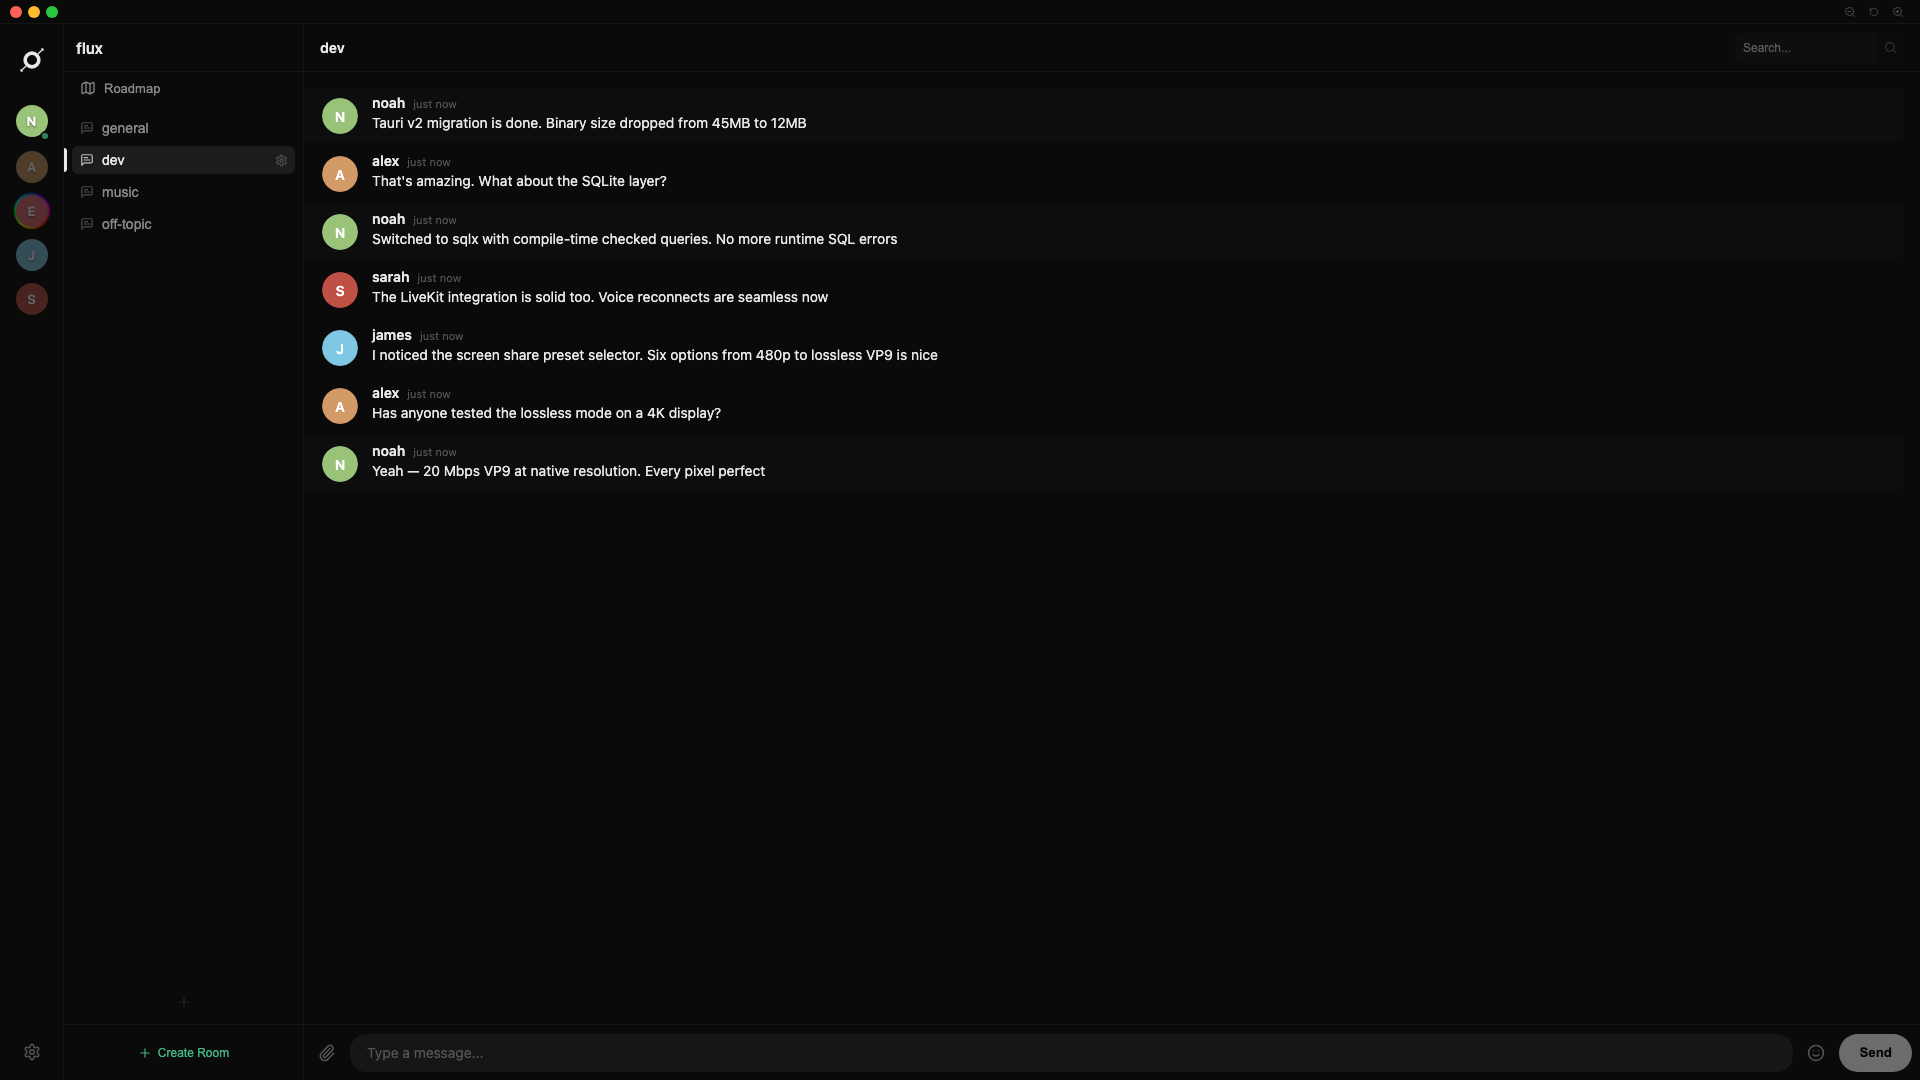
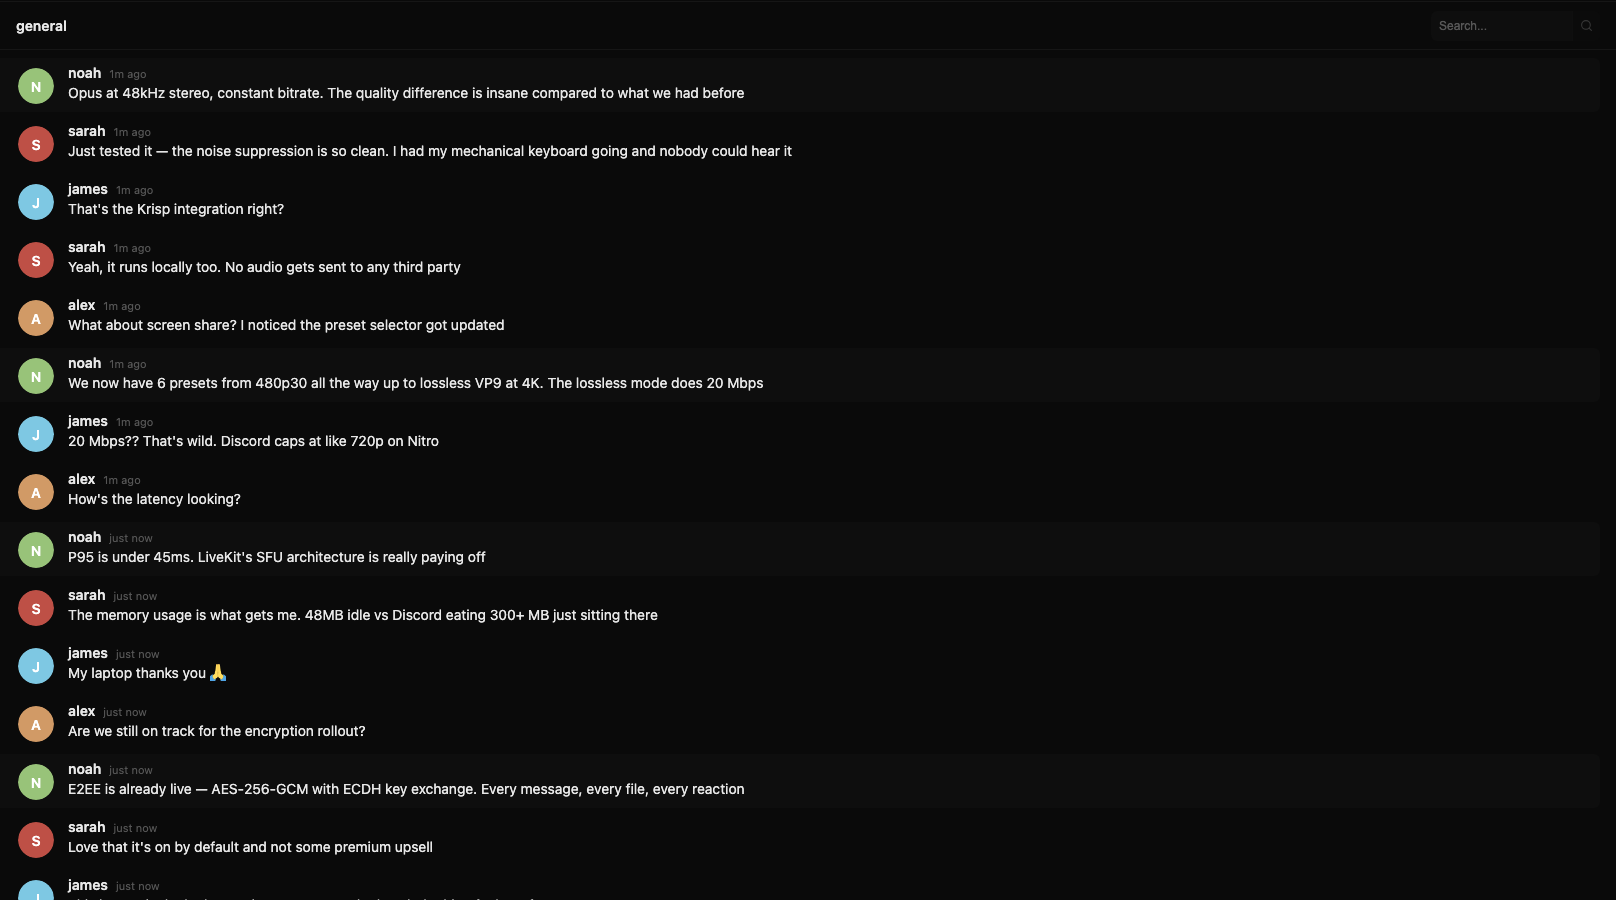
redesign feature sections with cropped UI fragments
- Crop screenshots to focused pieces (no window chrome/sidebars)
- Messaging: composited sidebar floating over message area
- Voice: Voice & Audio settings panel (completely different UI)
- Screen Share: cropped #dev conversation about VP9/4K
- Add sidebar.png fragment for floating composition

diff --git a/src/app/(main)/flux/page.tsx b/src/app/(main)/flux/page.tsx
@@ -24,50 +24,7 @@ const fluxBenchmarks: BenchmarkGroup[] = [
   { metric: "Audio Quality (Bitrate)", ours: { label: "Flux", value: 320 }, theirs: { label: "Discord", value: 96 }, unit: " kbps", lowerIsBetter: false },
 ];
 
-const FEATURE_SECTIONS = [
-  {
-    number: "1.0",
-    label: "Messaging",
-    title: "Encrypted by default.\nConversations that stay yours.",
-    description: "Every message, file, and reaction is encrypted end-to-end with AES-256-GCM before leaving your device. Rich text, emoji, reactions, and threaded replies — without compromising privacy.",
-    image: "/flux/chat.png",
-    imageAlt: "Flux chat interface showing channel sidebar and encrypted conversation",
-    subFeatures: [
-      { number: "1.1", label: "End-to-end encryption" },
-      { number: "1.2", label: "Rich messaging" },
-      { number: "1.3", label: "File sharing" },
-      { number: "1.4", label: "Reactions & threads" },
-    ],
-  },
-  {
-    number: "2.0",
-    label: "Voice",
-    title: "Crystal-clear audio.\nNoise suppression that actually works.",
-    description: "48kHz stereo Opus audio with Krisp AI noise suppression running locally on your device. Keyboard clatter, fans, and background chatter vanish — your voice stays untouched. Sub-45ms latency over LiveKit's globally distributed SFU.",
-    image: "/flux/voice.png",
-    imageAlt: "Flux voice room with connected participants",
-    subFeatures: [
-      { number: "2.1", label: "48kHz stereo" },
-      { number: "2.2", label: "Krisp noise filter" },
-      { number: "2.3", label: "320kbps bitrate" },
-      { number: "2.4", label: "<45ms latency" },
-    ],
-  },
-  {
-    number: "3.0",
-    label: "Customization",
-    title: "Make it yours.\nThemes, layouts, and fine-tuned audio.",
-    description: "Dark and light themes, custom backgrounds, adjustable sidebar positioning, noise suppression levels, and per-user volume controls. Every setting you need, nothing you don't.",
-    image: "/flux/settings.png",
-    imageAlt: "Flux settings panel showing appearance customization options",
-    subFeatures: [
-      { number: "3.1", label: "Theme system" },
-      { number: "3.2", label: "Audio tuning" },
-      { number: "3.3", label: "Custom keybinds" },
-      { number: "3.4", label: "Gallery backgrounds" },
-    ],
-  },
-];
+// Feature section data — images are composed per-section in the render
 
 const iconMap = { AudioWaveform, Lock, Monitor, MicOff, MessageSquare, Zap } as const;
 
@@ -164,75 +121,185 @@ function HeroScreenshot() {
   );
 }
 
-// ── Feature Section ──
-// Linear-style: section number + label, headline + description side-by-side at top,
-// full-width screenshot below, sub-feature links at bottom
+// ── Section Header ── (reusable)
 
-function FeatureSection({
+function SectionHeader({
   number,
   label,
   title,
   description,
-  image,
-  imageAlt,
-  subFeatures,
 }: {
   number: string;
   label: string;
   title: string;
   description: string;
-  image: string;
-  imageAlt: string;
-  subFeatures: { number: string; label: string }[];
 }) {
+  return (
+    <>
+      <ScrollReveal>
+        <div className="flex items-center gap-2 mb-16">
+          <span className="text-sm font-mono text-foreground-muted">{number}</span>
+          <span className="text-sm text-foreground-muted">{label}</span>
+          <ArrowRight size={14} className="text-foreground-muted" />
+        </div>
+      </ScrollReveal>
+      <div className="grid lg:grid-cols-2 gap-8 lg:gap-16 mb-16">
+        <ScrollReveal>
+          <h2 className="text-[clamp(2rem,4vw,3rem)] font-light tracking-[-0.02em] leading-[1.15] text-foreground whitespace-pre-line">
+            {title}
+          </h2>
+        </ScrollReveal>
+        <ScrollReveal delay={0.1}>
+          <p className="text-foreground-muted leading-relaxed lg:pt-2">
+            {description}
+          </p>
+        </ScrollReveal>
+      </div>
+    </>
+  );
+}
+
+function SubFeatures({ items }: { items: { number: string; label: string }[] }) {
+  return (
+    <ScrollReveal delay={0.1}>
+      <div className="mt-12 grid grid-cols-2 sm:grid-cols-4 gap-4">
+        {items.map((sf) => (
+          <div key={sf.number} className="flex items-baseline gap-2">
+            <span className="text-sm font-mono text-foreground-muted/50">{sf.number}</span>
+            <span className="text-sm text-foreground-muted">{sf.label}</span>
+          </div>
+        ))}
+      </div>
+    </ScrollReveal>
+  );
+}
+
+// ── 1.0 Messaging ──
+// Composited: channel sidebar floating over the message stream
+
+function MessagingSection() {
   return (
     <section className="py-24 sm:py-32 px-6 border-t border-border/50">
       <div className="mx-auto max-w-6xl">
-        {/* Section number + arrow */}
+        <SectionHeader
+          number="1.0"
+          label="Messaging"
+          title={"Encrypted by default.\nConversations that stay yours."}
+          description="Every message, file, and reaction is encrypted end-to-end with AES-256-GCM before leaving your device. Rich text, emoji, reactions, and threaded replies — without compromising privacy."
+        />
+
+        {/* Composited image: sidebar floating over message area */}
         <ScrollReveal>
-          <div className="flex items-center gap-2 mb-16">
-            <span className="text-sm font-mono text-foreground-muted">{number}</span>
-            <span className="text-sm text-foreground-muted">{label}</span>
-            <ArrowRight size={14} className="text-foreground-muted" />
+          <div className="relative">
+            {/* Message area — the main piece */}
+            <div className="rounded-xl overflow-hidden border border-border/50 shadow-2xl">
+              <img
+                src="/flux/chat.png"
+                alt="Flux encrypted conversation in #general"
+                className="w-full h-auto block"
+              />
+            </div>
+
+            {/* Channel sidebar — floating offset card */}
+            <div className="absolute -left-4 sm:-left-8 top-8 sm:top-12 w-[140px] sm:w-[180px] rounded-xl overflow-hidden border border-border/50 shadow-2xl bg-background">
+              <img
+                src="/flux/sidebar.png"
+                alt="Flux channel sidebar"
+                className="w-full h-auto block"
+                style={{ maxHeight: "400px", objectFit: "cover", objectPosition: "top" }}
+              />
+            </div>
           </div>
         </ScrollReveal>
 
-        {/* Headline left, description right — Linear style */}
-        <div className="grid lg:grid-cols-2 gap-8 lg:gap-16 mb-16">
-          <ScrollReveal>
-            <h2 className="text-[clamp(2rem,4vw,3rem)] font-light tracking-[-0.02em] leading-[1.15] text-foreground whitespace-pre-line">
-              {title}
-            </h2>
-          </ScrollReveal>
-          <ScrollReveal delay={0.1}>
-            <p className="text-foreground-muted leading-relaxed lg:pt-2">
-              {description}
-            </p>
-          </ScrollReveal>
-        </div>
+        <SubFeatures
+          items={[
+            { number: "1.1", label: "End-to-end encryption" },
+            { number: "1.2", label: "Rich messaging" },
+            { number: "1.3", label: "File sharing" },
+            { number: "1.4", label: "Reactions & threads" },
+          ]}
+        />
+      </div>
+    </section>
+  );
+}
 
-        {/* Full-width screenshot */}
+// ── 2.0 Voice ──
+// Shows the Voice & Audio settings panel — a completely different UI from the chat
+
+function VoiceSection() {
+  return (
+    <section className="py-24 sm:py-32 px-6 border-t border-border/50">
+      <div className="mx-auto max-w-6xl">
+        <SectionHeader
+          number="2.0"
+          label="Voice"
+          title={"Crystal-clear audio.\nNoise suppression that actually works."}
+          description="48kHz stereo Opus audio with Krisp AI noise suppression running locally on your device. Keyboard clatter, fans, and background chatter vanish — your voice stays untouched. Sub-45ms latency over LiveKit's globally distributed SFU."
+        />
+
+        {/* Voice & Audio settings — shows the audio engine controls */}
         <ScrollReveal>
-          <div className="relative rounded-lg overflow-hidden border border-border/50">
+          <div className="flex justify-center">
+            <div className="relative max-w-lg w-full">
+              <div className="rounded-xl overflow-hidden border border-border/50 shadow-2xl">
+                <img
+                  src="/flux/settings.png"
+                  alt="Flux Voice & Audio settings with noise suppression, echo cancellation, and adaptive bitrate controls"
+                  className="w-full h-auto block"
+                />
+              </div>
+            </div>
+          </div>
+        </ScrollReveal>
+
+        <SubFeatures
+          items={[
+            { number: "2.1", label: "48kHz stereo" },
+            { number: "2.2", label: "Krisp noise filter" },
+            { number: "2.3", label: "320kbps bitrate" },
+            { number: "2.4", label: "<45ms latency" },
+          ]}
+        />
+      </div>
+    </section>
+  );
+}
+
+// ── 3.0 Screen Share ──
+// Shows the #dev channel messages about screen sharing — technical discussion
+
+function ScreenShareSection() {
+  return (
+    <section className="py-24 sm:py-32 px-6 border-t border-border/50">
+      <div className="mx-auto max-w-6xl">
+        <SectionHeader
+          number="3.0"
+          label="Screen Share"
+          title={"Lossless streaming.\nEvery pixel, exactly as you see it."}
+          description="VP9 screen sharing up to 4K at 20 Mbps with six quality presets. Share your IDE, your game, or your design — from 480p30 all the way to lossless. No Nitro required."
+        />
+
+        {/* #dev conversation about screen sharing — cropped message fragment */}
+        <ScrollReveal>
+          <div className="rounded-xl overflow-hidden border border-border/50 shadow-2xl">
             <img
-              src={image}
-              alt={imageAlt}
+              src="/flux/voice.png"
+              alt="Flux dev channel discussing screen share quality presets and VP9 encoding"
               className="w-full h-auto block"
             />
           </div>
         </ScrollReveal>
 
-        {/* Sub-feature links */}
-        <ScrollReveal delay={0.1}>
-          <div className="mt-12 grid grid-cols-2 sm:grid-cols-4 gap-4">
-            {subFeatures.map((sf) => (
-              <div key={sf.number} className="flex items-baseline gap-2">
-                <span className="text-sm font-mono text-foreground-muted/50">{sf.number}</span>
-                <span className="text-sm text-foreground-muted">{sf.label}</span>
-              </div>
-            ))}
-          </div>
-        </ScrollReveal>
+        <SubFeatures
+          items={[
+            { number: "3.1", label: "4K resolution" },
+            { number: "3.2", label: "60fps streaming" },
+            { number: "3.3", label: "VP9 codec" },
+            { number: "3.4", label: "6 quality presets" },
+          ]}
+        />
       </div>
     </section>
   );
@@ -241,9 +308,9 @@ function FeatureSection({
 function FeatureSections() {
   return (
     <div id="features">
-      {FEATURE_SECTIONS.map((section) => (
-        <FeatureSection key={section.number} {...section} />
-      ))}
+      <MessagingSection />
+      <VoiceSection />
+      <ScreenShareSection />
     </div>
   );
 }
